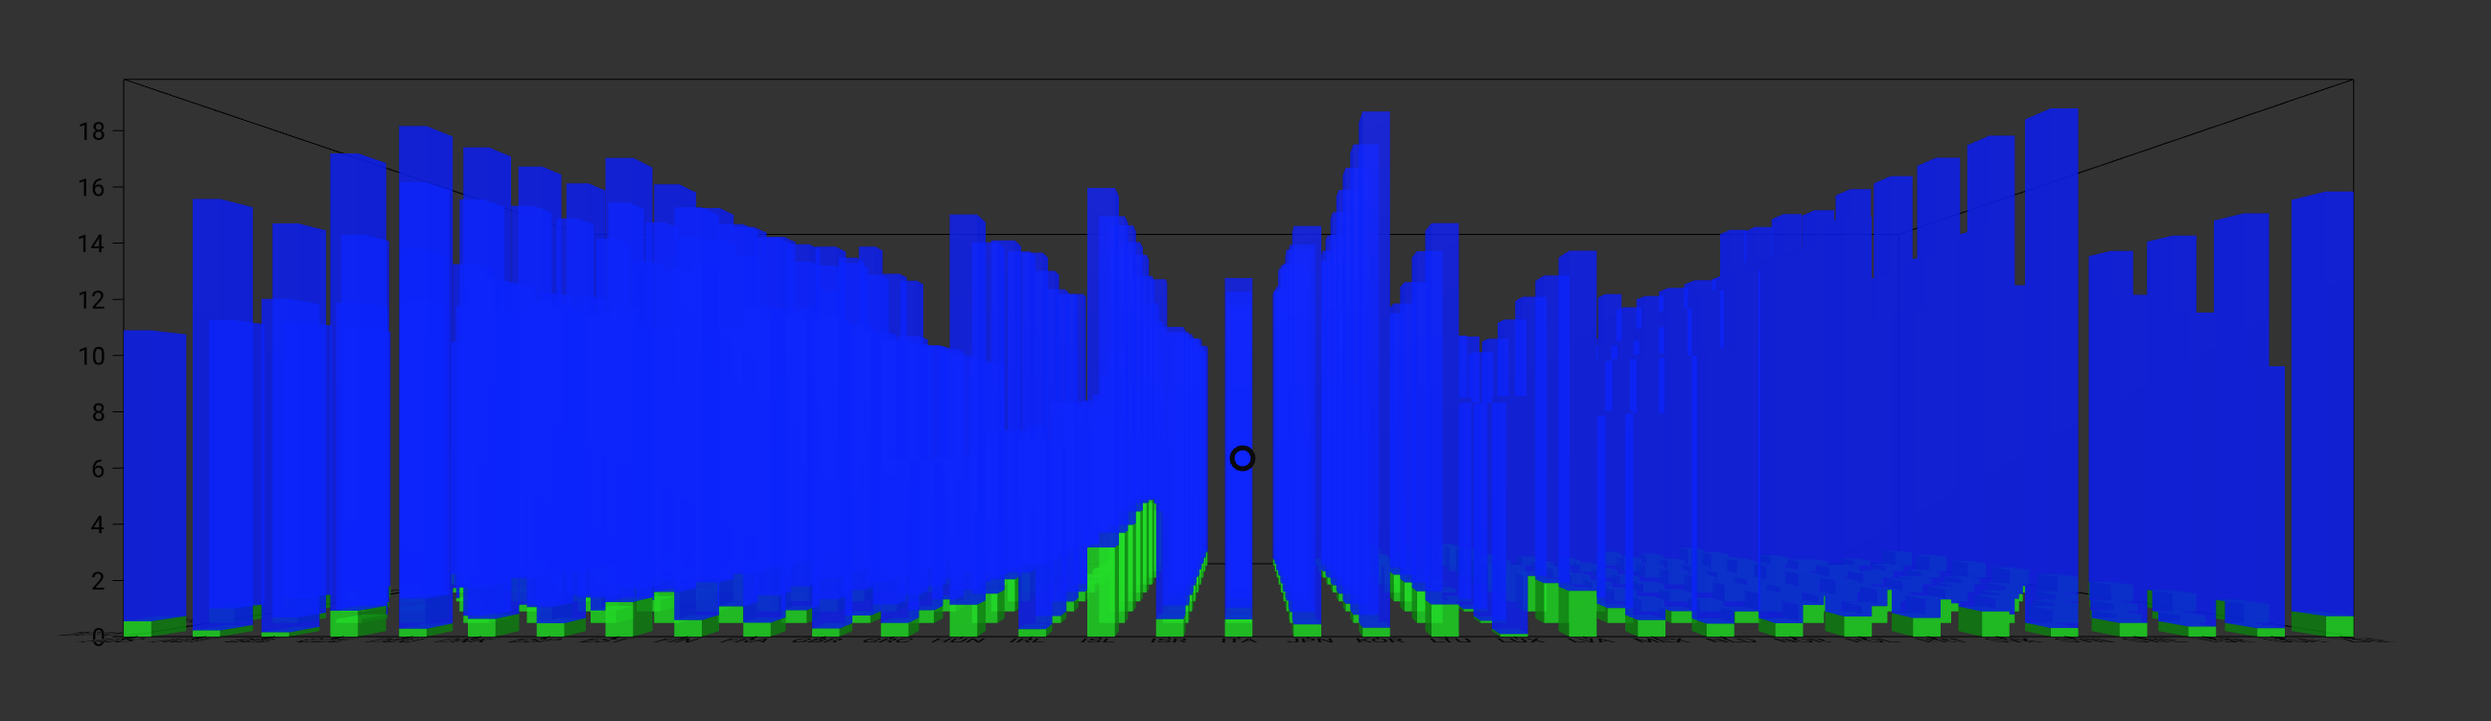
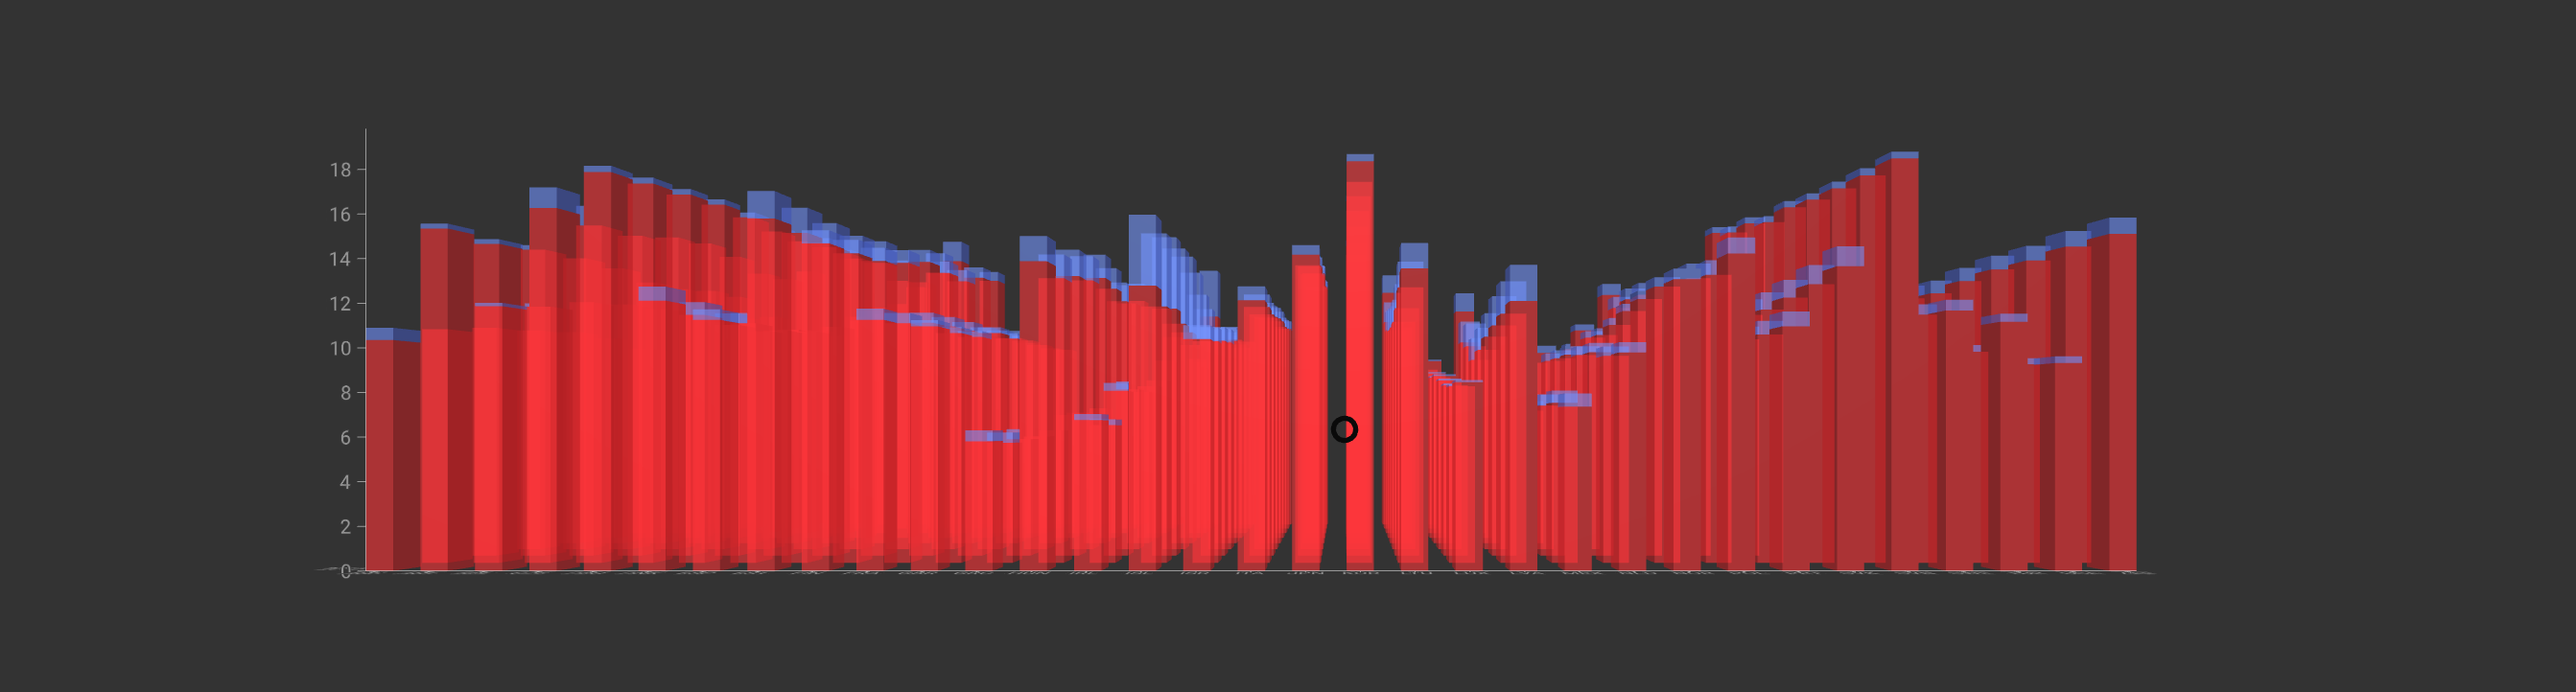
Flowmap adding nodes

diff --git a/examples/FlowMap.js b/examples/FlowMap.js
@@ -62,7 +62,7 @@ class App extends Component {
                     },
                     'fill': {
                       'color': 'red',
-                      'opacity': 1,
+                      'opacity': 0,
                     },
                     'stroke': {
                       'width': 1,
@@ -83,7 +83,33 @@ class App extends Component {
                     'field': 'value',
                     'scaleFactor': 1,
                   }
-                }
+                },
+                'nodes': {
+                  'source': {
+                    'type': 'sphere',
+                    'style': {
+                      'radius': {
+                        'value': 0.1,
+                      },
+                      'fill': {
+                        'color': 'blue',
+                        'opacity': 1,
+                      },
+                    }
+                  },
+                  'target': {
+                    'type': 'sphere',
+                    'style': {
+                      'radius': {
+                        'value': 0.1,
+                      },
+                      'fill': {
+                        'color': 'green',
+                        'opacity': 1,
+                      },
+                    }
+                  }
+                },
               },
             }
           ]

diff --git a/ReadMe/FlowMap.md b/ReadMe/FlowMap.md
@@ -81,6 +81,23 @@ flowlines.style.stroke.color|string or array of string|Defines the stroke of the
 flowline.height|object|Defines the peak height which flowlines can achieve. __Not Required. If not present the height is calculated depending upon the distance between the source and target.__
 flowline.height.field|string|Defines the field in the data that will be mapped as height of the flowline. __Required.__
 flowline.height.scaleFactor|float|Defines the factor with which the height is scaled. __Required.__
+nodes|object|Defines style of the source and target nodes. __Not Required. If not defined the nodes are not drawn.__
+nodes.source|object|Defines style of the source nodes. __Not Required. If not defined the source nodes are not drawn.__
+nodes.source.type|string|Defines shape of the source nodes. __Not Required. Default value: sphere__. _Available values: box, sphere._
+nodes.source.style|object|Defines the style of source node. __Required.__
+nodes.source.style.radius|object|Defines the radius or width, depth and height of the node. __Required.__
+nodes.source.style.radius.value|float|Defines the radius or width, depth and height of the node. __Required.__
+nodes.source.style.fill|object|Defines the fill of the source node. __Required.__
+nodes.source.style.color|string|Defines the color of the source node. __Required.__
+nodes.source.style.fill.opacity|float|Defines the opacity of the source node. __Required.__ _Value must be between 0 and 1._
+nodes.target|object|Defines style of the target nodes. __Not Required. If not defined the target nodes are not drawn.__
+nodes.target.type|string|Defines shape of the target nodes. __Not Required. Default value: sphere__. _Available values: box, sphere._
+nodes.target.style|object|Defines the style of target node. __Required.__
+nodes.target.style.radius|object|Defines the radius or width, depth and height of the node. __Required.__
+nodes.target.style.radius.value|float|Defines the radius or width, depth and height of the node. __Required.__
+nodes.target.style.fill|object|Defines the fill of the target node. __Required.__
+nodes.target.style.color|string|Defines the color of the target node. __Required.__
+nodes.target.style.fill.opacity|float|Defines the opacity of the target node. __Required.__ _Value must be between 0 and 1._
 
 ### [Example JS of the Visualization](../examples/FlowMap.js)
 

diff --git a/ReadMe/ScatterPlot.md b/ReadMe/ScatterPlot.md
@@ -74,7 +74,7 @@ __Properties for `mark` for Prism Map__
 
 Property|Type|Description
 ---|---|---
-type|string|Defines type of bar that would be created. __Not Required. Default value: sphere__. _Available values: box, sphere._
+type|string|Defines type of point that would be created. __Not Required. Default value: sphere__. _Available values: box, sphere._
 position|object|Defines the how the position of points will be mapped. __Required.__
 position.x|object|__Required.__
 position.x.scaleType|string|Defines the scale type for x position of the points. __Required.__ _Available values: linear or ordinal._
